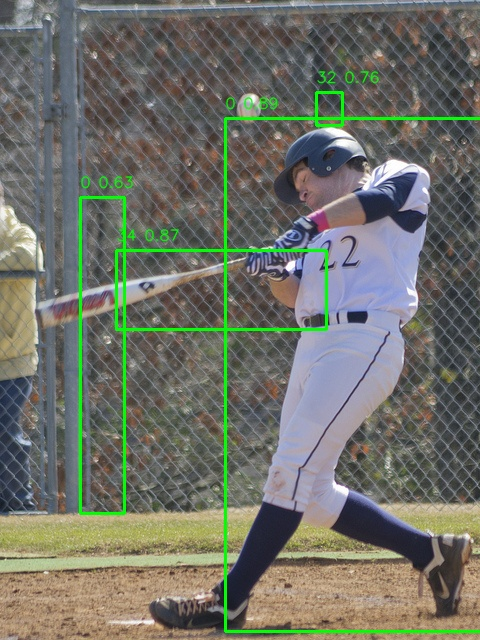
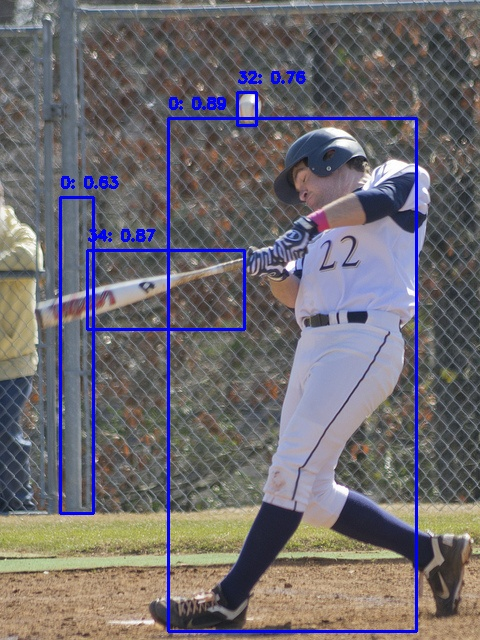
Update inference data loader batch size and enhance image annotation process

Changed region(s): [[0.0938, 0.0938, 1.0, 1.0]]

diff --git a/test_inference.py b/test_inference.py
@@ -18,7 +18,7 @@ def inference(args, params):
         filenames.append('data/images/' + str(i) + '.jpg')
 
     dataset = Dataset(filenames, args.input_size, params, False)
-    loader = data.DataLoader(dataset, 1, False, collate_fn=Dataset.collate_fn)  
+    loader = data.DataLoader(dataset, 5, False, collate_fn=Dataset.collate_fn)  
     
     model = torch.load('./weights/best.pt', map_location='cpu')['model'].float() 
     
@@ -59,21 +59,38 @@ def inference(args, params):
             # Load original image for drawing
             original_img = cv2.imread(image_path)
             h_orig, w_orig = original_img.shape[:2]
-
+            
             # Save predictions to TXT
             txt_path = os.path.join(txt_dir, f"{filename}.txt")
             with open(txt_path, 'w') as f:
                 if pred is not None and len(pred):
+
                     for *xyxy, conf, cls in pred:
                         line = f"{int(cls)} {conf:.4f} {' '.join([f'{x:.2f}' for x in xyxy])}\n"
                         f.write(line)
-
+                        
+                        # scale coordinates to original image size
+                        xyxy = [int(x) for x in xyxy]
+                        xyxy[0] = int(xyxy[0] * w_orig / args.input_size)
+                        xyxy[1] = int(xyxy[1] * h_orig / args.input_size)
+                        xyxy[2] = int(xyxy[2] * w_orig / args.input_size)
+                        xyxy[3] = int(xyxy[3] * h_orig / args.input_size)
+                        
                         # Draw boxes on image
-                        x1, y1, x2, y2 = map(int, xyxy)
-                        label = f"{int(cls)} {conf:.2f}"
-                        cv2.rectangle(original_img, (x1, y1), (x2, y2), (0, 255, 0), 2)
-                        cv2.putText(original_img, label, (x1, y1 - 10), cv2.FONT_HERSHEY_SIMPLEX,
-                                    0.5, (0, 255, 0), 1, cv2.LINE_AA)
+                        x1, y1, x2, y2 = [int(x) for x in xyxy]
+                        label = f"{int(cls)}: {conf:.2f}"
+                        color = (0, 255, 0)
+                        cv2.rectangle(original_img, (x1, y1), (x2, y2), color, 2)
+                        cv2.putText(original_img, label, (x1, y1 - 10), 
+                                cv2.FONT_HERSHEY_SIMPLEX, 0.5, color, 2)
+                        
+                                               
+                        # Draw boxes on image
+                        # x1, y1, x2, y2 = map(int, xyxy)
+                        # label = f"{int(cls)} {conf:.2f}"
+                        # cv2.rectangle(original_img, (x1, y1), (x2, y2), (0, 255, 0), 2)
+                        # cv2.putText(original_img, label, (x1, y1 - 10), cv2.FONT_HERSHEY_SIMPLEX,
+                        #             0.5, (0, 255, 0), 1, cv2.LINE_AA)
 
             # Save annotated image
             img_save_path = os.path.join(img_dir, f"{filename}.jpg")
